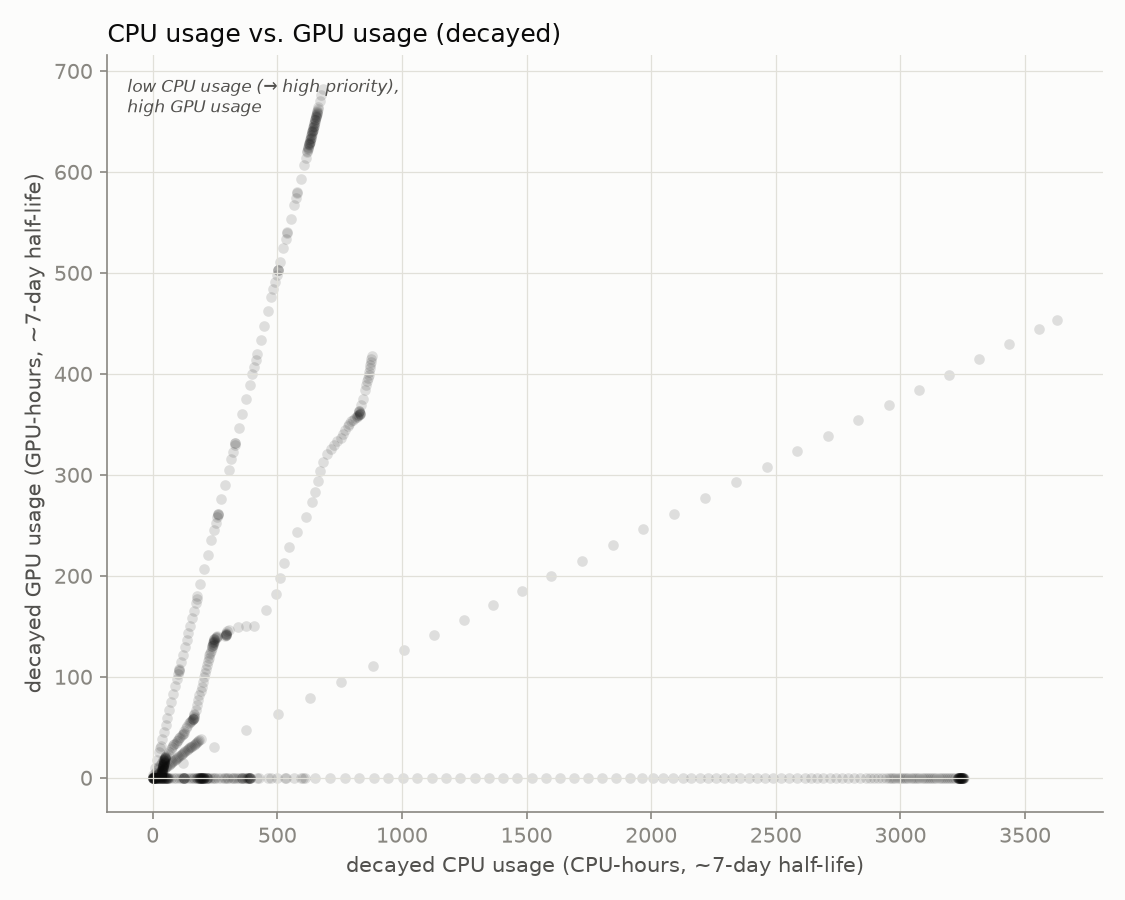
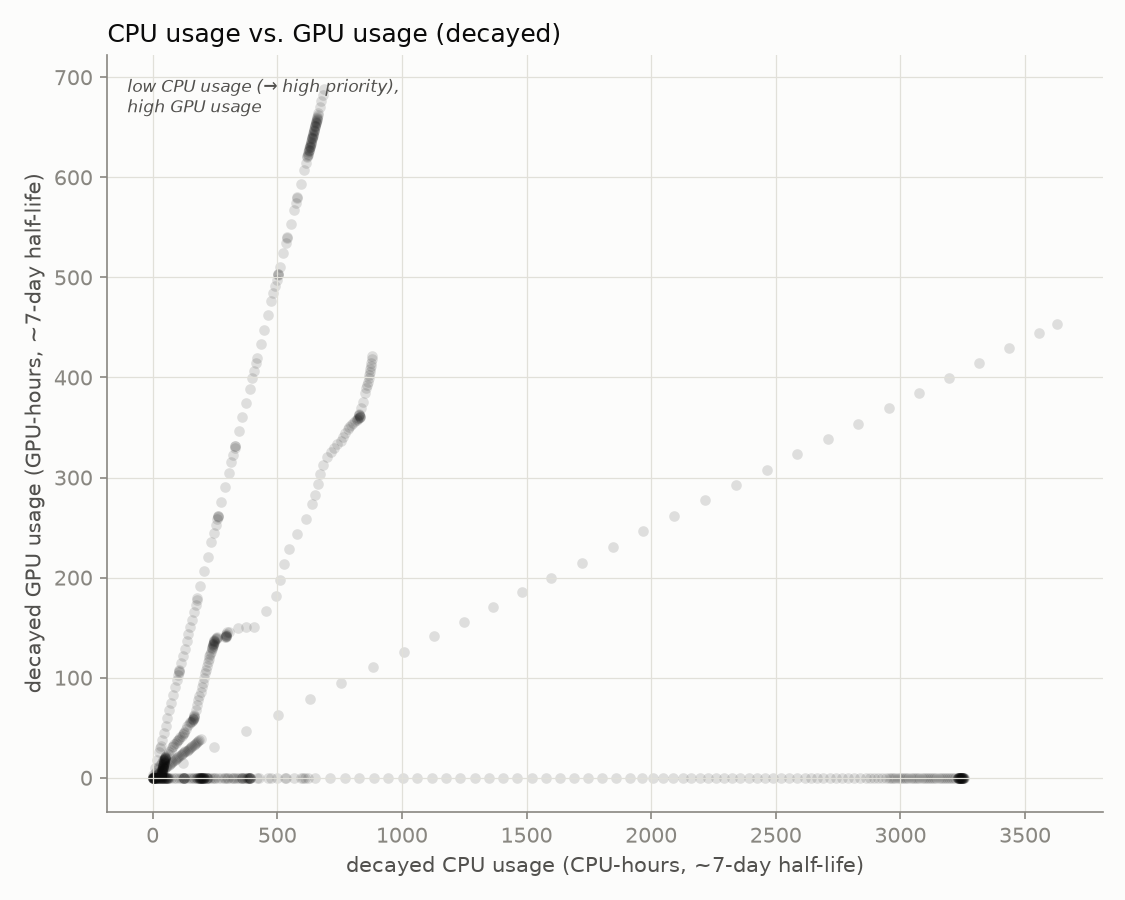
update 2026-08-08T08:00:01-07:00

diff --git a/README.md b/README.md
@@ -2,8 +2,8 @@
 
 Automated GPU/CPU/queue utilization tracker for `hopper.cluster`, updated every 30 minutes by cron. Usernames are anonymized to a stable per-account pseudonym; lab names are real.
 
-Last updated: 2026-08-08T07:30:13-07:00
-Samples: 131 queue snapshots, 131 GPU snapshots
+Last updated: 2026-08-08T08:00:13-07:00
+Samples: 132 queue snapshots, 132 GPU snapshots
 
 ## Resources
 
@@ -17,24 +17,24 @@ Samples: 131 queue snapshots, 131 GPU snapshots
 ## Headline
 
 - **45.5%** of the cluster's 60 GPUs allocated, averaged across all samples
-- **46.9%** average `nvidia-smi` utilization *when* a GPU is allocated to a job
+- **47.1%** average `nvidia-smi` utilization *when* a GPU is allocated to a job
 - **88.0%** average cgroup CPU utilization *when* a CPU is allocated to a job
 
 ## Per lab / per user
 
 <table>
 <tr><th>Lab</th><th>User</th><th align='right'>GPU-hours allocated</th><th align='right'>CPU-hours allocated</th><th align='right'>GPU utilization</th></tr>
-<tr style='background-color:#d8ecd8'><td>zhuang-lab</td><td>user-0db9ced0</td><td align='right'>796.5</td><td align='right'>796.5</td><td align='right'>46%</td></tr>
+<tr style='background-color:#d8ecd8'><td>zhuang-lab</td><td>user-0db9ced0</td><td align='right'>804.0</td><td align='right'>804.0</td><td align='right'>46%</td></tr>
+<tr style='background-color:#d8efef'><td>witter-lab</td><td>user-554c620c</td><td align='right'>468.0</td><td align='right'>985.5</td><td align='right'>67%</td></tr>
 <tr style='background-color:#d8efef'><td>witter-lab</td><td>user-d58f5a15</td><td align='right'>467.5</td><td align='right'>3740.0</td><td align='right'>9%</td></tr>
-<tr style='background-color:#d8efef'><td>witter-lab</td><td>user-554c620c</td><td align='right'>464.0</td><td align='right'>981.5</td><td align='right'>67%</td></tr>
 <tr style='background-color:#fbebf1'><td>nerenberg-lab</td><td>user-6bb5f332</td><td align='right'>40.0</td><td align='right'>200.0</td><td align='right'>71%</td></tr>
-<tr style='background-color:#fbebf1'><td>nerenberg-lab</td><td>user-fedb5feb</td><td align='right'>21.5</td><td align='right'>53.0</td><td align='right'>66%</td></tr>
-<tr style='background-color:#fcf0d8'><td>ibarragarciapadilla-lab</td><td>user-eec7ffae</td><td align='right'>0.0</td><td align='right'>426.5</td><td align='right'>—</td></tr>
-<tr style='background-color:#dfeaf8'><td>enkavi-lab</td><td>user-c21bdaa4</td><td align='right'>0.0</td><td align='right'>171.0</td><td align='right'>—</td></tr>
+<tr style='background-color:#fbebf1'><td>nerenberg-lab</td><td>user-fedb5feb</td><td align='right'>22.0</td><td align='right'>53.5</td><td align='right'>67%</td></tr>
+<tr style='background-color:#fcf0d8'><td>ibarragarciapadilla-lab</td><td>user-3cfc41a3</td><td align='right'>0.0</td><td align='right'>3915.0</td><td align='right'>—</td></tr>
 <tr style='background-color:#fcf0d8'><td>ibarragarciapadilla-lab</td><td>user-dad71a72</td><td align='right'>0.0</td><td align='right'>6.0</td><td align='right'>—</td></tr>
-<tr style='background-color:#fce8e0'><td>gillen-lab</td><td>user-b89a87ef</td><td align='right'>0.0</td><td align='right'>624.0</td><td align='right'>—</td></tr>
-<tr style='background-color:#fcf0d8'><td>ibarragarciapadilla-lab</td><td>user-3cfc41a3</td><td align='right'>0.0</td><td align='right'>3907.5</td><td align='right'>—</td></tr>
+<tr style='background-color:#fce8e0'><td>gillen-lab</td><td>user-b89a87ef</td><td align='right'>0.0</td><td align='right'>636.0</td><td align='right'>—</td></tr>
 <tr style='background-color:#fbebf1'><td>nerenberg-lab</td><td>user-b12dc074</td><td align='right'>0.0</td><td align='right'>16.0</td><td align='right'>—</td></tr>
+<tr style='background-color:#dfeaf8'><td>enkavi-lab</td><td>user-c21bdaa4</td><td align='right'>0.0</td><td align='right'>171.0</td><td align='right'>—</td></tr>
+<tr style='background-color:#fcf0d8'><td>ibarragarciapadilla-lab</td><td>user-eec7ffae</td><td align='right'>0.0</td><td align='right'>426.5</td><td align='right'>—</td></tr>
 </table>
 
 ## Usage over time
@@ -45,7 +45,7 @@ Samples: 131 queue snapshots, 131 GPU snapshots
 
 Solid = utilized by lab, hatched = allocated but idle, gray = usage not traceable to a lab, dashed line = cluster capacity.
 
-Attribution combines `nvidia-smi`'s process listing with Slurm's GPU-to-job binding record; the latter caught **2602** readings the former missed.
+Attribution combines `nvidia-smi`'s process listing with Slurm's GPU-to-job binding record; the latter caught **2613** readings the former missed.
 
 ## Queue
 
@@ -57,13 +57,13 @@ Attribution combines `nvidia-smi`'s process listing with Slurm's GPU-to-job bind
 
 ![CPU usage vs GPU usage, decayed](assets/cpu_gpu_usage.png)
 
-One point per user per snapshot (n=632), usage decayed on Slurm's ~7-day fairshare half-life.
+One point per user per snapshot (n=637), usage decayed on Slurm's ~7-day fairshare half-life.
 
 **GPU usage doesn't count toward priority on this cluster** (`TRESBillingWeights`/`PriorityWeightTRES` unset) - watch the **upper-left**: low CPU usage (high priority) with high GPU usage.
 
 ## Recommendations
 
-1. **Weight GPU usage in fairshare.** `TRESBillingWeights` and `PriorityWeightTRES` are both unset right now, so Slurm's fairshare score only sees CPU-seconds - a job holding 4 idle L40S GPUs costs nothing in priority as long as it isn't also holding CPUs. That's the exact failure mode the scatter above is built to catch (upper-left: low CPU usage, high GPU usage). Fix: `scontrol update partition=main TRESBillingWeights=CPU=1.0,GRES/gpu=<weight>` (or set `PriorityWeightTRES` cluster-wide), then `scontrol reconfigure` - a full `slurmctld` restart also works but drops in-flight priority state. A reasonable starting point for `<weight>` is the CPUs-per-GPU ratio on a GPU node (128 CPUs / 4 GPUs = 32), so one GPU costs as much fairshare as the CPU share it displaces; tune from there against next week's headline numbers (45.5% allocated, 46.9% utilized when allocated, as of this snapshot). The weight value itself is a policy call - loop in whoever owns cluster allocation policy before changing it.
+1. **Weight GPU usage in fairshare.** `TRESBillingWeights` and `PriorityWeightTRES` are both unset right now, so Slurm's fairshare score only sees CPU-seconds - a job holding 4 idle L40S GPUs costs nothing in priority as long as it isn't also holding CPUs. That's the exact failure mode the scatter above is built to catch (upper-left: low CPU usage, high GPU usage). Fix: `scontrol update partition=main TRESBillingWeights=CPU=1.0,GRES/gpu=<weight>` (or set `PriorityWeightTRES` cluster-wide), then `scontrol reconfigure` - a full `slurmctld` restart also works but drops in-flight priority state. A reasonable starting point for `<weight>` is the CPUs-per-GPU ratio on a GPU node (128 CPUs / 4 GPUs = 32), so one GPU costs as much fairshare as the CPU share it displaces; tune from there against next week's headline numbers (45.5% allocated, 47.1% utilized when allocated, as of this snapshot). The weight value itself is a policy call - loop in whoever owns cluster allocation policy before changing it.
 
 2. **Escalate on sustained low utilization** (see table and scatter above). Right now the clearest candidate is `user-d58f5a15` in `witter-lab`: 467.5 GPU-hours allocated at 9% average utilization, i.e. roughly 424 GPU-hours that sat idle instead of going to someone in the queue. Turning that into an automated escalation needs two decisions made up front: a utilization threshold (something like under 20% mean utilization over at least 50 allocated GPU-hours is a defensible starting bar - loose enough to skip short debugging runs, tight enough to catch parked allocations) and a grace period (how many consecutive low-utilization snapshots before it counts as "sustained" rather than a momentary lull between batches). Once those are set, the mechanism can be either soft (a bot that reads `data/gpu_samples.jsonl` and reminds the user/lab by email or Slack) or hard (a Slurm-side QOS penalty, e.g. `sacctmgr modify qos <qos> set Priority-=<n>`, applied after N consecutive offending snapshots). Neither exists yet - today the table and scatter above are a read-only signal, not an enforced policy.
 
